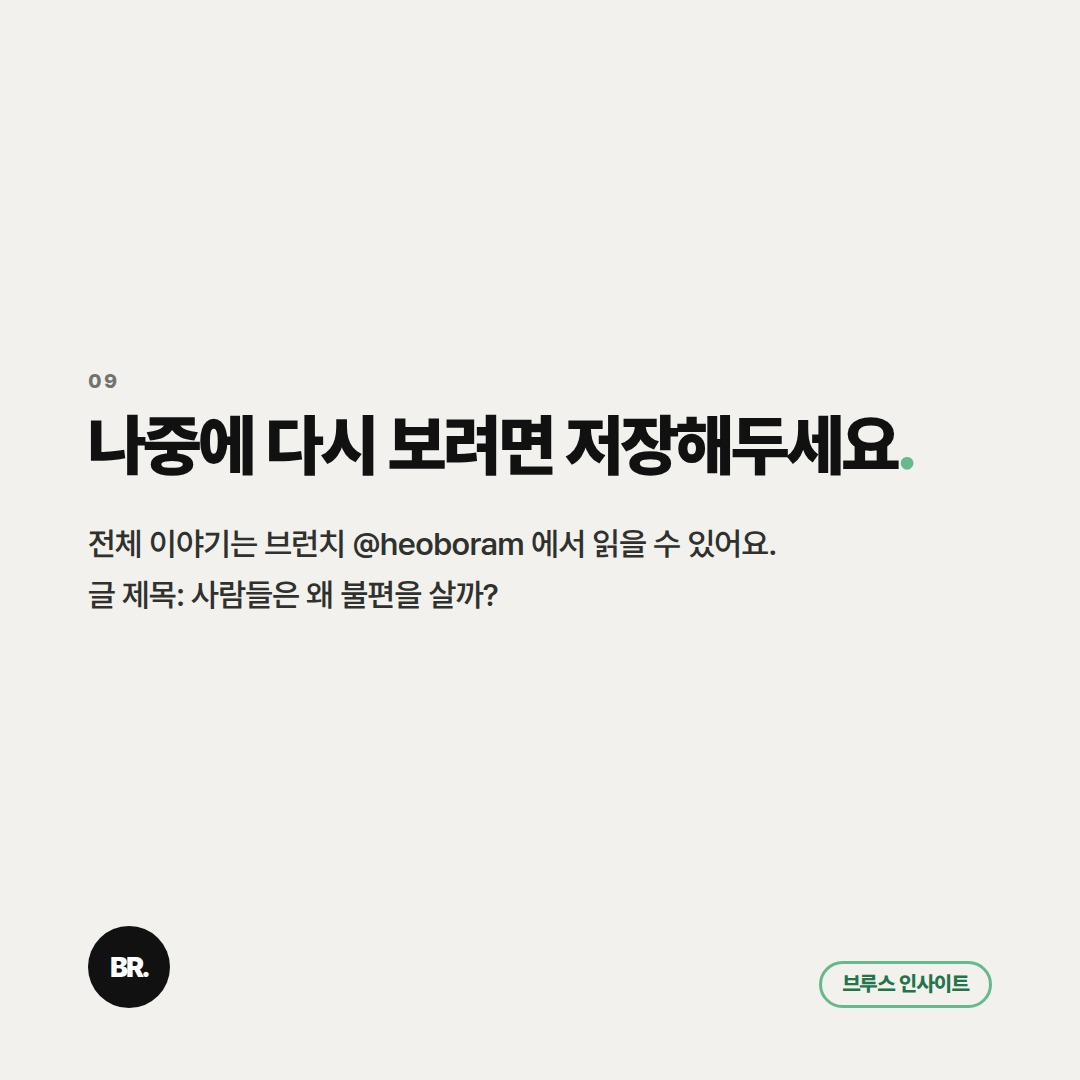
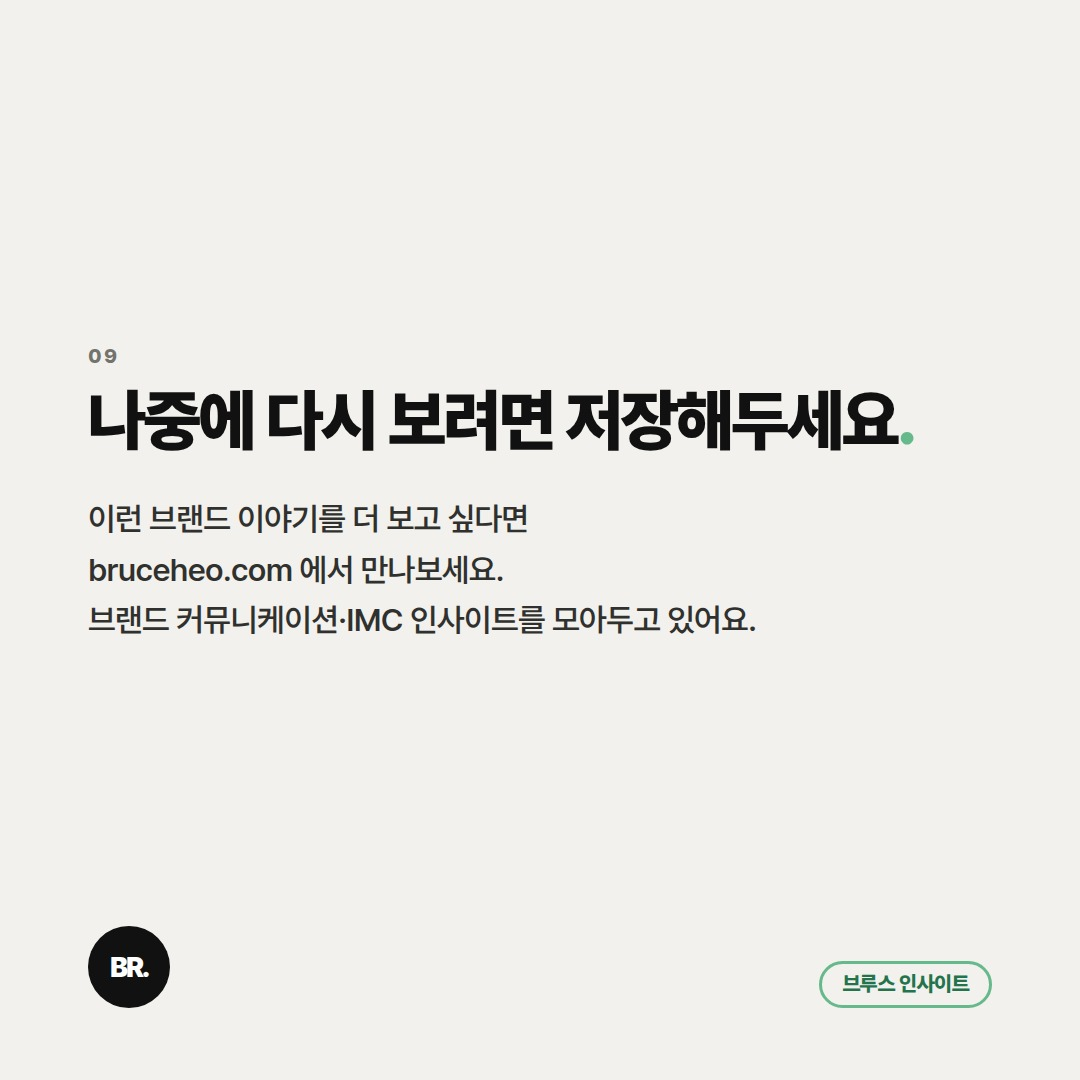
content: Brunch 213 last card points to bruceheo.com
Claude-Session: https://claude.ai/code/session_01WiBXoCt32ssmTaZodMJSoM

Changed region(s): [[0.0611, 0.3056, 0.8556, 0.6111]]

diff --git a/content/213/preview.html b/content/213/preview.html
@@ -97,7 +97,7 @@
       <div class="body-copy">
         <div class="card-number">09</div>
         <h2 class="body-title">나중에 다시 보려면 저장해두세요<span class="accent-dot">.</span></h2>
-        <p class="body-text">전체 이야기는 브런치 @heoboram 에서 읽을 수 있어요.<br>글 제목: 사람들은 왜 불편을 살까?</p>
+        <p class="body-text">이런 브랜드 이야기를 더 보고 싶다면<br>bruceheo.com 에서 만나보세요.<br>브랜드 커뮤니케이션·IMC 인사이트를 모아두고 있어요.</p>
       </div>
       <div class="brand-pill">브루스 인사이트</div><div class="br-mark">BR.</div>
     </div>
